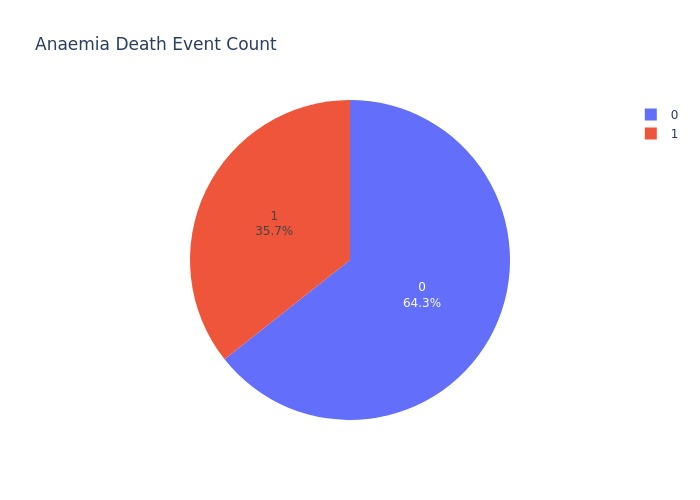
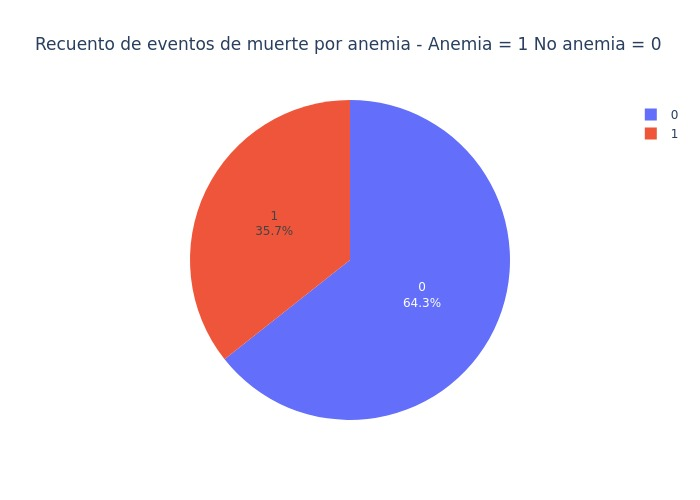
Graficas en español

Changed region(s): [[0.03, 0.06, 0.96, 0.12]]

diff --git a/app/SparkServices/SparkServices.py b/app/SparkServices/SparkServices.py
@@ -50,7 +50,7 @@ class SparkServices:
         # Generar la gráfica con Plotly Express
         fig = px.box(df, x='sex', y='age', points="all")
         fig.update_layout(
-            title_text="Gender wise Age Spread - Male = 1 Female =0"
+            title_text="Diferencia de edad según el género - Masculino = 1 Femenino =0"
         )       
 
         # Guardar la gráfica en un archivo JPEG
@@ -69,7 +69,7 @@ class SparkServices:
         fig = px.pie(df, values='smoking',names='DEATH_EVENT', title='Smoking Death Event Ratio')
         fig.update_traces(textposition='inside', textinfo='percent+label') 
         fig.update_layout(
-            title_text="Smoking Death Event Count"
+            title_text="Eventos de muerte entre fumadores - Fumador = 1 No fumador = 0"
         ) 
 
         # Guardar la gráfica en un archivo JPEG
@@ -89,7 +89,7 @@ class SparkServices:
         fig = px.pie(df, values='anaemia',names='DEATH_EVENT', title='Anaemia Death Event Ratio')
         fig.update_traces(textposition='inside', textinfo='percent+label') 
         fig.update_layout(
-            title_text="Anaemia Death Event Count"
+            title_text="Recuento de eventos de muerte por anemia - Anemia = 1 No anemia = 0"
         ) 
 
         # Guardar la gráfica en un archivo JPEG
@@ -108,7 +108,7 @@ class SparkServices:
         fig = px.pie(df, values='diabetes',names='DEATH_EVENT', title='Diabetes Death Event Ratio')
         fig.update_traces(textposition='inside', textinfo='percent+label') 
         fig.update_layout(
-            title_text="Diabetes Death Event Count"
+            title_text="Recuento de eventos de muerte por diabetes - Diabetes = 1 No diabetes = 0"
         ) 
 
         # Guardar la gráfica en un archivo JPEG
@@ -127,7 +127,7 @@ class SparkServices:
         fig = px.pie(df, values='high_blood_pressure',names='DEATH_EVENT', title='High Blood Pressure Death Event Ratio')
         fig.update_traces(textposition='inside', textinfo='percent+label') 
         fig.update_layout(
-            title_text="High Blood Pressure Death Event Count"
+            title_text="Recuento de eventos de muerte por presión arterial alta"
         ) 
 
         # Guardar la gráfica en un archivo JPEG
